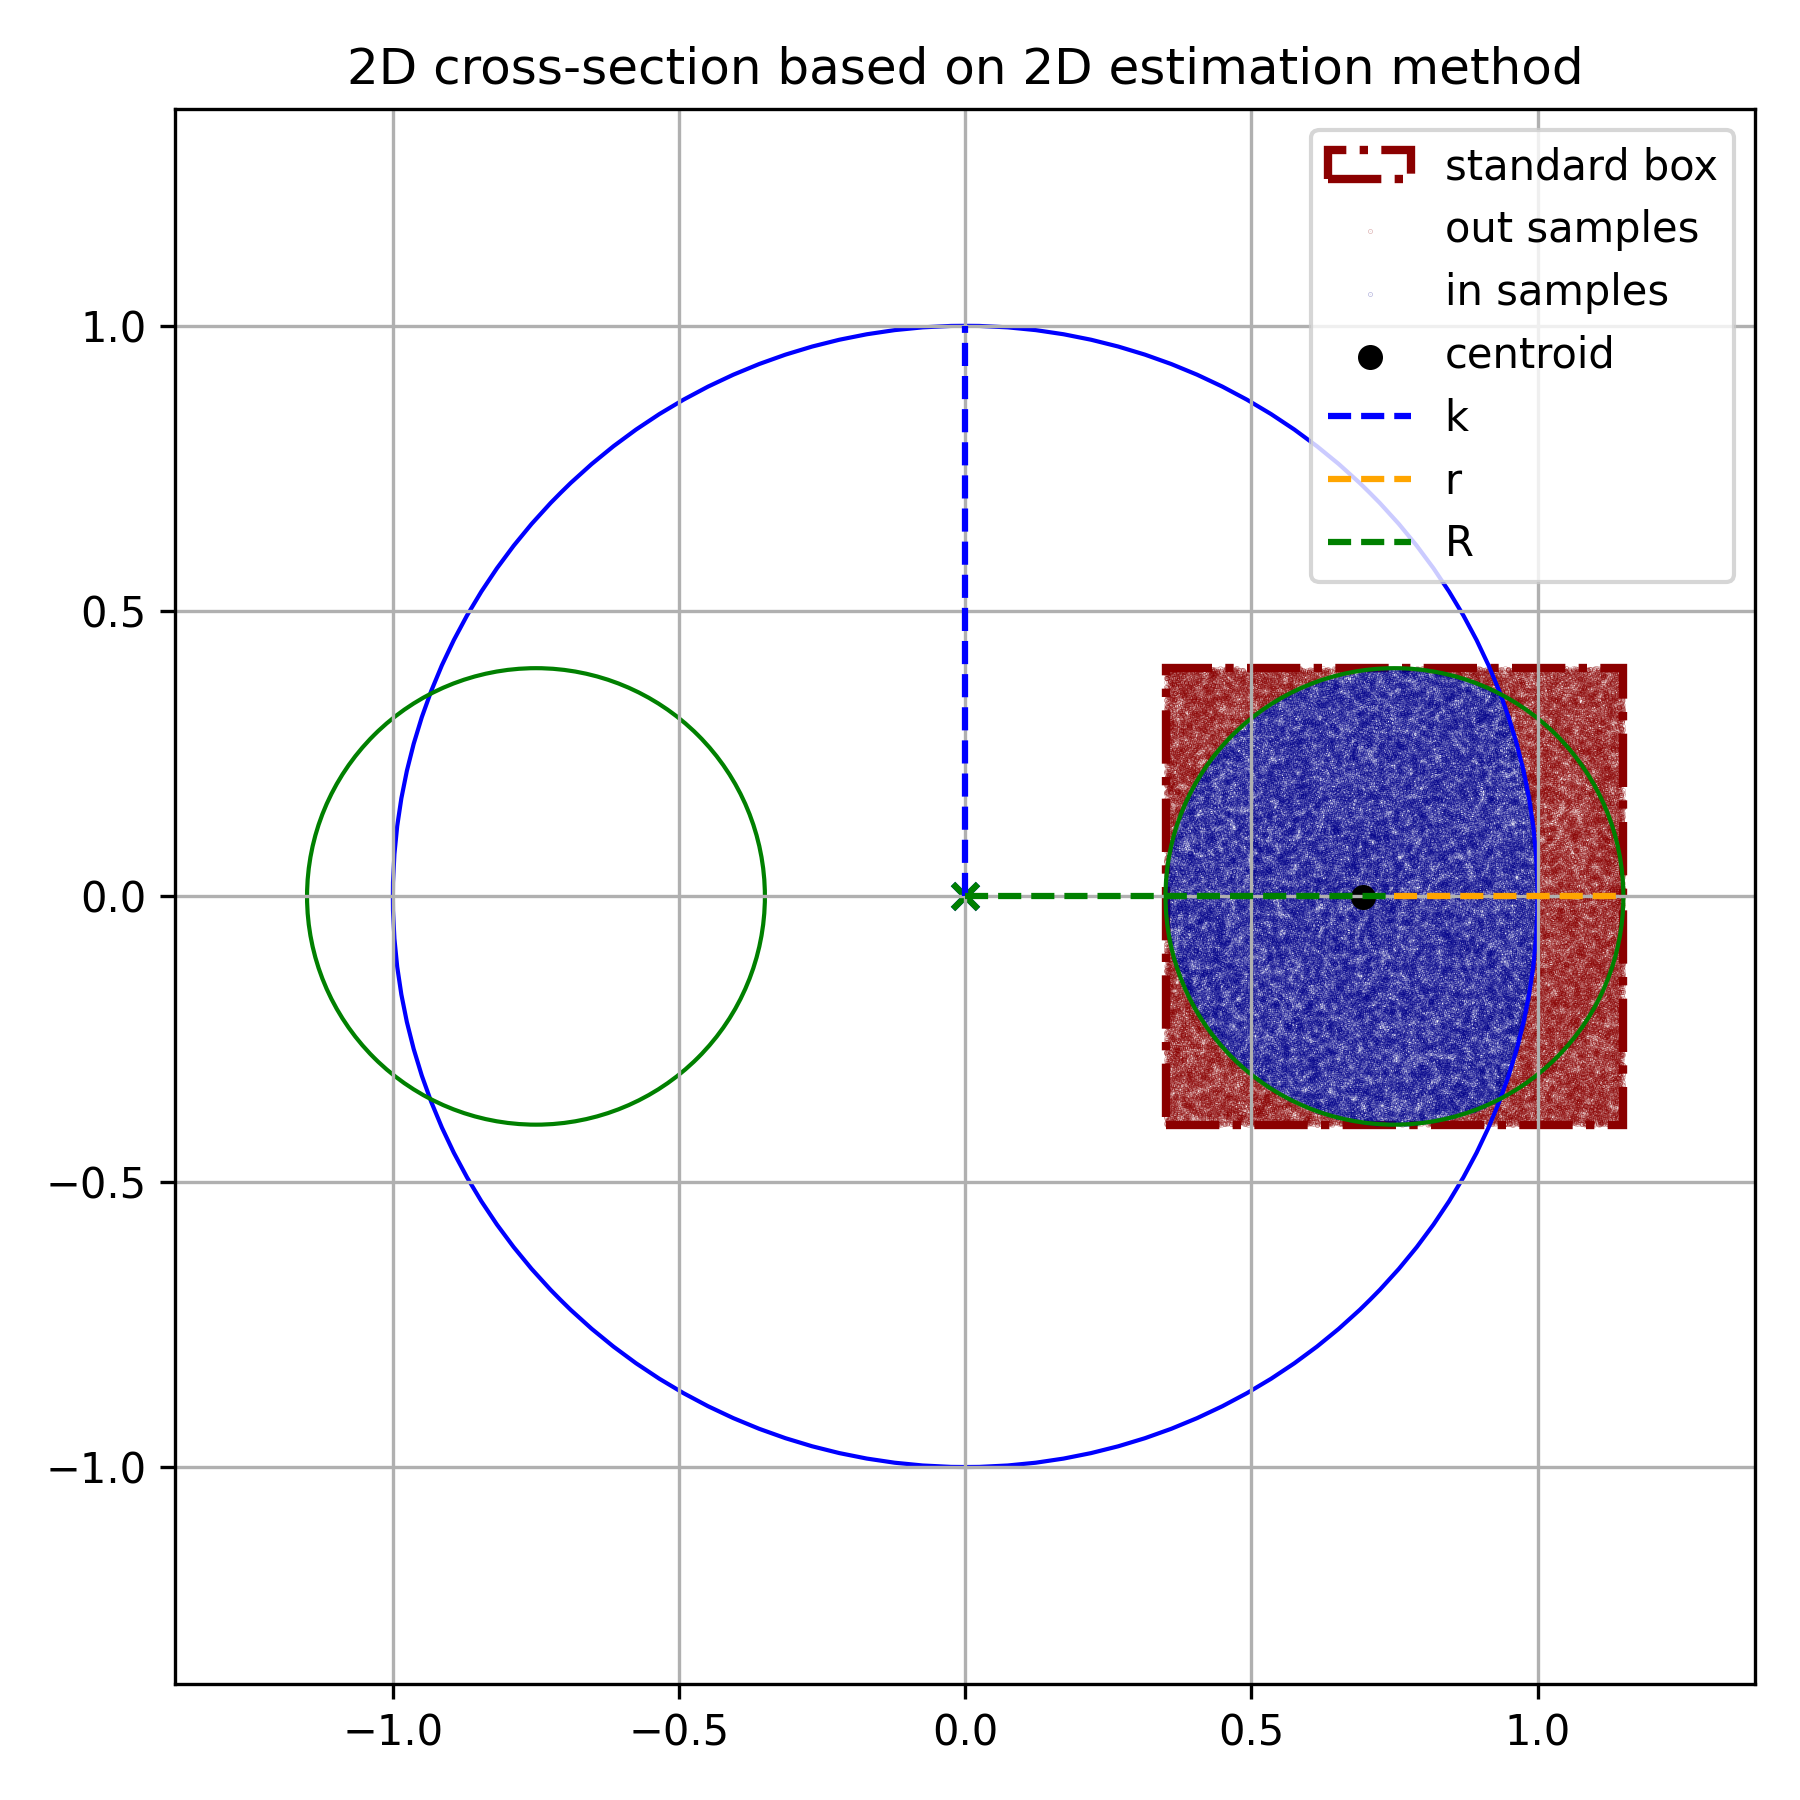
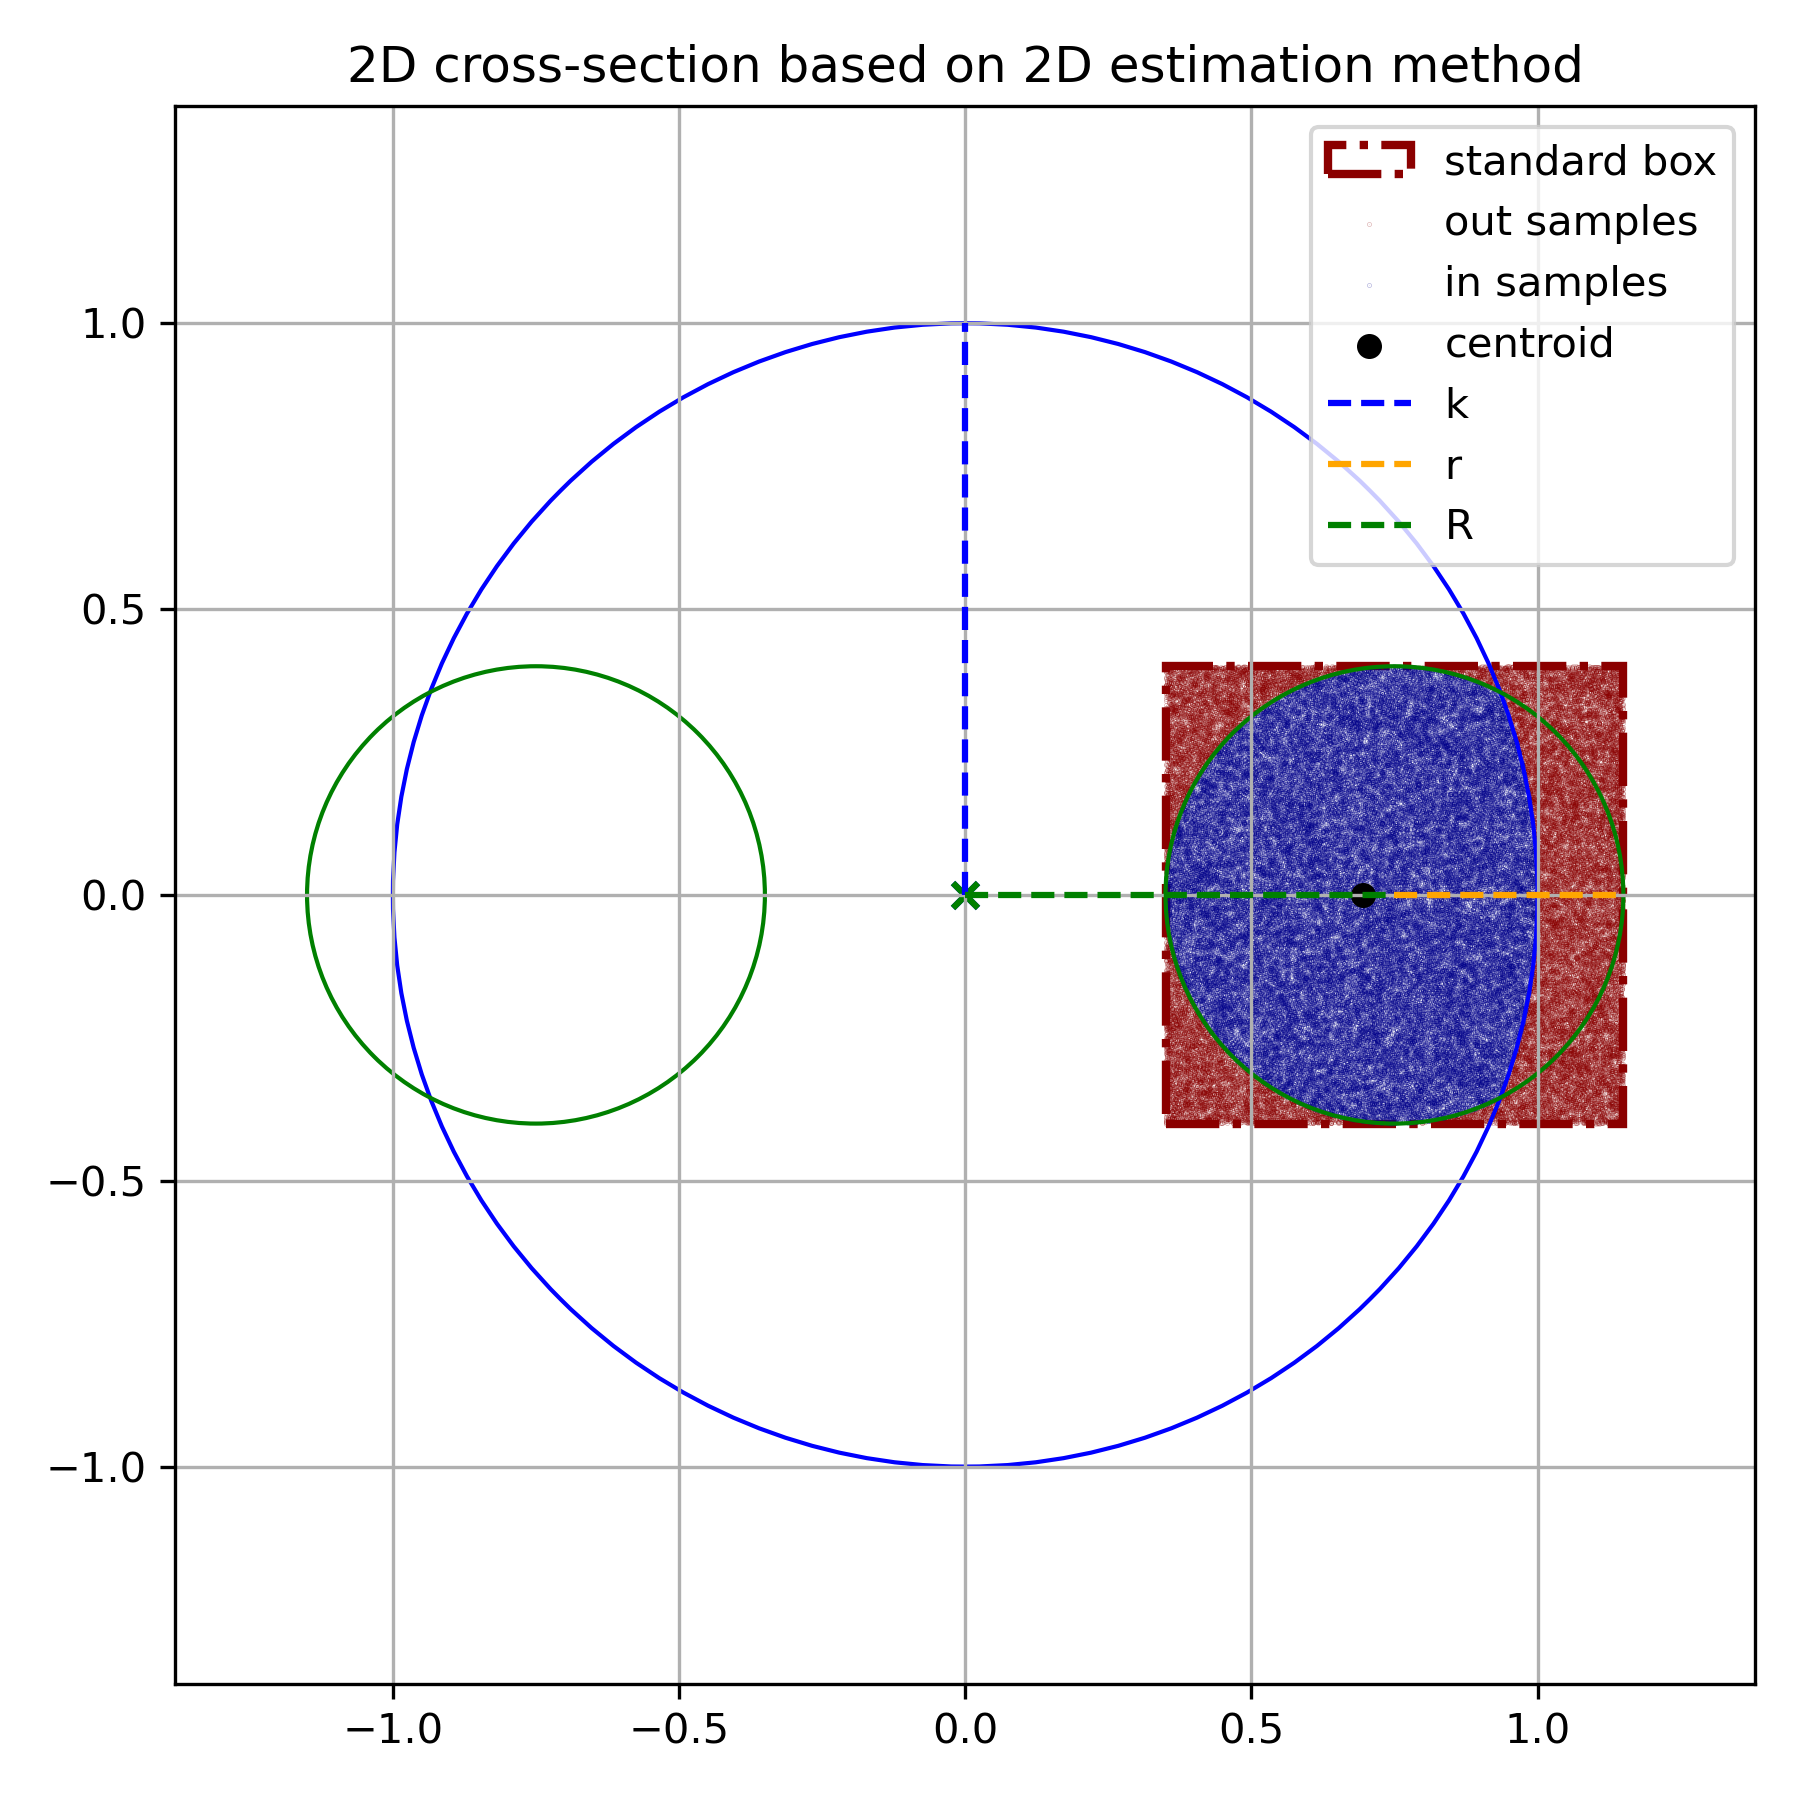
mixture sampling plot

diff --git a/main.py b/main.py
@@ -39,7 +39,7 @@ def box_onesided_2d(r: float, R: float, origin: list[float] = [0.0, 0.0]) -> lis
 
 
 def box_sample(r: float, R: float, origin: list[float] = [0.0, 0.0, 0.0]) -> list:
-    dy = r
+    dy = R + r
     dx = R + r
     dz = r
 
@@ -157,7 +157,7 @@ def monte_carlo_3d(
     Estimates volume of intersection between sphere (radius k) and torus (R, r).
     """
     box = box_standard(r, R, origin=origin)  # or box_sample(r, R)
-
+    print(box)
     pts = samples(box, n)  # or deterministic_sequence(box, n)
 
     inside_sphere = sphere(pts, k)
@@ -180,10 +180,14 @@ def mixed_sampling(
     origin: list[float] = [0.0, 0.0, 0.0],
 ) -> list[float, np.ndarray, np.ndarray]:
     """
-    Estimates volume of intersection between sphere (radius k) and torus (R, r).
+    Estimates volume of intersection between sphere (radius k) and torus (R, r),
+    sampling from a box centered in (0, 0, 0) with probability p
+    and from a smaller box centered in given origin with probability (1-p).
     """
-    box1 = box_standard(r, R, origin=origin)  # or box_sample(r, R)
-    box2 = box_standard(r, R, origin=origin)  # or box_sample(r, R)
+    box1 = box_standard(r, R, origin=origin)
+    box2 = box_sample(r, R, origin=origin)
+
+    print(f"box1 = {box1} and box2 = {box2}")
     pts1 = []
     pts2 = []
 
@@ -203,8 +207,8 @@ def mixed_sampling(
     pts1_in = inside_sphere & inside_torus
 
     # second box
-    inside_sphere = sphere(pts1, k)
-    inside_torus = torus(pts1, r, R)
+    inside_sphere = sphere(pts2, k)
+    inside_torus = torus(pts2, r, R)
     count2 = np.sum(inside_sphere & inside_torus)
     pts2_in = inside_sphere & inside_torus
 
@@ -585,6 +589,234 @@ def run_multi_executions(
     return results
 
 
+def plot_mix_2d(
+    k: float,
+    r: float,
+    R: float,
+    origin_s: list = [0, 0, 0],
+    origin_t: list = [0, 0, 0],
+    pts1: np.ndarray = None,
+    pts1_in: np.ndarray = None,
+    pts2: np.ndarray = None,
+    pts2_in: np.ndarray = None,
+    save_path: str = "",
+    show: bool = False,
+    title: str = "",
+) -> plt.Axes:
+    """
+    Plots the intersection between the sphere and the torus.
+    k: radius of the sphere
+    r: minor radius of the torus
+    R: major radius of the torus
+    """
+
+    fig, ax = plt.subplots(1, 1, figsize=(6, 6))
+    max_val = np.max([k, R + r])
+    x_max = max_val * 1.2
+
+    # sphere
+    sphere = plt.Circle(origin_s, k, color="blue", fill=False)
+    k_line = plt.Line2D(
+        [origin_s[0] + 0],
+        [origin_s[2], origin_s[2] + k],
+        color="blue",
+        ls="--",
+        label="k",
+    )
+
+    # torus
+    torus_l = plt.Circle((origin_t[0] + R, origin_t[2]), r, color="green", fill=False)
+    r_line = plt.Line2D(
+        [origin_t[0] + R, origin_t[0] + R + r],
+        [origin_t[2], origin_t[2]],
+        color="orange",
+        ls="--",
+        label="r",
+    )
+    R_line = plt.Line2D(
+        [origin_t[0], origin_t[0] + R],
+        [origin_t[2], origin_t[2]],
+        color="green",
+        ls="--",
+        label="R",
+    )
+    torus_r = plt.Circle((origin_t[0] - R, origin_t[2]), r, color="green", fill=False)
+
+    # box (only x and z)
+    # from 3d:
+
+    box1 = box_standard(r, R, origin=origin_t)
+    box2 = box_sample(r, R, origin=origin_t)
+
+    if pts.shape[1] == 3:
+
+        rect1 = mpatches.Rectangle(
+            (box1[0][0], box1[2][0]),
+            box1[0][1] - box1[0][0],
+            box1[2][1] - box1[2][0],
+            fill=False,
+            ls="-.",
+            color="purple",
+            lw=2,
+            label="standard box",
+        )
+
+        rect2 = mpatches.Rectangle(
+            (box2[0][0], box2[2][0]),
+            box2[0][1] - box2[0][0],
+            box2[2][1] - box2[2][0],
+            fill=False,
+            ls="-.",
+            color="darkred",
+            lw=2,
+            label="standard box",
+        )
+        ax.add_patch(rect1)
+        ax.add_patch(rect2)
+
+    s = 0.1
+
+    if pts1 is not None:
+        if pts1_in is not None:
+            # in and out samples
+
+            # if from 3d points
+            if pts1.shape[1] == 3:
+                # slice y = 0 plane
+                delta = 0.15 * r
+                slice1_y = np.abs(pts1[:, 1]) < delta
+                pts1_in_2d = pts1_in & slice1_y
+                pts1_out_2d = ~pts1_in & slice1_y
+                # mask
+                in_pts1 = pts1[pts1_in_2d][:, [0, -1]]
+                # binary invert for out points
+                out_pts1 = pts1[pts1_out_2d][:, [0, -1]]
+            # points in 2d
+            else:
+                in_pts1 = pts1[pts1_in]
+                # binary invert for out points
+                out_pts1 = pts1[~pts1_in]
+
+            ax.scatter(
+                out_pts1[:, 0],
+                out_pts1[:, 1],
+                color="purple",
+                marker=".",
+                s=s,
+                alpha=0.7,
+                label="out samples",
+            )
+
+            ax.scatter(
+                in_pts1[:, 0],
+                in_pts1[:, 1],
+                color="blue",
+                marker=".",
+                s=s,
+                alpha=0.3,
+                label="in samples",
+            )
+        else:
+            # only out samples
+            pts1 = np.array(pts1)
+            ax.scatter(
+                pts1[:, 0],
+                pts1[:, 1],
+                color="purple",
+                marker=".",
+                s=s,
+                alpha=0.7,
+                label="out samples",
+            )
+
+    if pts2 is not None:
+        if pts2_in is not None:
+            # in and out samples
+
+            # if from 3d points
+            if pts2.shape[1] == 3:
+                # slice y = 0 plane
+                delta = 0.15 * r
+                slice2_y = np.abs(pts2[:, 1]) < delta
+                pts2_in_2d = pts2_in & slice2_y
+                pts2_out_2d = ~pts2_in & slice2_y
+                # mask
+                in_pts2 = pts2[pts2_in_2d][:, [0, -1]]
+                # binary invert for out points
+                out_pts2 = pts2[pts2_out_2d][:, [0, -1]]
+            # points in 2d
+            else:
+                in_pts2 = pts2[pts2_in]
+                # binary invert for out points
+                out_pts2 = pts2[~pts2_in]
+
+            ax.scatter(
+                out_pts2[:, 0],
+                out_pts2[:, 1],
+                color="orange",
+                marker=".",
+                s=s,
+                alpha=0.5,
+                label="out samples",
+            )
+
+            ax.scatter(
+                in_pts2[:, 0],
+                in_pts2[:, 1],
+                color="darkblue",
+                marker=".",
+                s=s,
+                alpha=0.3,
+                label="in samples",
+            )
+        else:
+            # only out samples
+            pts2 = np.array(pts2)
+            ax.scatter(
+                pts2[:, 0],
+                pts2[:, 1],
+                color="orange",
+                marker=".",
+                s=s,
+                alpha=0.5,
+                label="out samples",
+            )
+
+    # plot
+    ax.add_artist(sphere)
+    ax.add_artist(k_line)
+    ax.add_artist(torus_l)
+    ax.add_artist(torus_r)
+    ax.add_artist(r_line)
+    ax.add_artist(R_line)
+
+    # plot origin
+    plt.scatter(origin_s[0], origin_s[2], color="blue", marker="x")
+    plt.scatter(origin_t[0], origin_t[2], color="green", marker="x")
+    # limits
+    ax.set_xlim([-x_max, x_max])
+    ax.set_ylim([-x_max, x_max])
+    if title:
+        ax.set_title(title)
+    else:
+        ax.set_title("2D cross-section of Sphere and Torus")
+
+    # nicer plot
+    plt.legend()
+    plt.tight_layout()
+    plt.grid()
+
+    # show flag
+    if show:
+        plt.show()
+
+    # save if path is there
+    if save_path:
+        fig.savefig(save_path, dpi=300)
+
+    return ax
+
+
 if __name__ == "__main__":
     # Parameters
     seed_deterministic = np.random.rand(3)
@@ -598,9 +830,9 @@ if __name__ == "__main__":
     # print(sequence)
     # --- Monte Carlo volume estimation ---
 
-    estimated_volume, (pts, pts_in) = monte_carlo_3d(k, r, R, n, origin=origin_shift)
-    print(pts.shape, pts_in.shape)
-    print(f"Estimated intersection volume (sphere ∩ torus): {estimated_volume:.9f}")
+    #    estimated_volume, (pts, pts_in) = monte_carlo_3d(k, r, R, n)
+    #    print(pts.shape, pts_in.shape)
+    #    print(f"Estimated intersection volume (sphere ∩ torus): {estimated_volume:.9f}")
     # --- 3D plot --- (quite slow)
     # plot_3d(k, r, R, pts=pts, pts_in=pts_in)
     # --- 2D plot ---
@@ -608,24 +840,49 @@ if __name__ == "__main__":
     # slice_y = np.abs(pts[:, 1]) < delta
     # pts_in_2d = pts_in & slice_y
     # centroid_2d = find_centroid(pts[pts_in_2d])
-    plot_2d(k, r, R, pts=pts, pts_in=pts_in, save_path="img/2d.png")
+    #    plot_2d(k, r, R, pts=pts, pts_in=pts_in, save_path="img/2d.png")
+
+    # --- Monte Carlo volume estimation via 2D simplification ---
+    #    estimated_volume_2d, (pts_2d, pts_in_2d) = monte_carlo_2d(k, r, R, n)
+    #    plot_2d(
+    #        k,
+    #        r,
+    #        R,
+    #        pts=pts_2d,
+    #        pts_in=pts_in_2d,
+    #        centroid=find_centroid(pts_2d[pts_in_2d]),
+    #        save_path="img/2d_estimate_via_2d.png",
+    #        title="2D cross-section based on 2D estimation method",
+    #    )
+    #    print(f"Estimated intersection volume via 2D method: {estimated_volume_2d:.9f}")
+
+    # --- Monte Carlo volume estimation with mixed sampling ---
+
+    estimated_volume, (pts, pts_in) = monte_carlo_3d(k, r, R, n, origin=origin_shift)
+    print(
+        f"Estimated intersection volume (sphere ∩ torus) with torus' origin shifted: {estimated_volume:.9f}"
+    )
 
     estimated_volume_mix, (pts1, pts1_in), (pts2, pts2_in) = mixed_sampling(
         k, r, R, 0.5, n, origin=origin_shift
     )
-    print(pts1.shape, pts1_in.shape, pts2.shape, pts2_in.shape)
-    print(f"Estimated intersection volume (sphere ∩ torus): {estimated_volume_mix:.4f}")
+    print(
+        f"shape of pt1, pt1_in: {pts1.shape, pts1_in.shape}, shape of pt2, pt2_in: { pts2.shape, pts2_in.shape}"
+    )
+    print(
+        f"Estimated intersection volume (sphere ∩ torus) with mixed sampling and torus' origin shifted: {estimated_volume_mix:.9f}"
+    )
 
-    # --- Monte Carlo volume estimation via 2D simplification ---
-    estimated_volume_2d, (pts_2d, pts_in_2d) = monte_carlo_2d(k, r, R, n)
-    plot_2d(
+    plot_mix_2d(
         k,
         r,
         R,
-        pts=pts_2d,
-        pts_in=pts_in_2d,
-        centroid=find_centroid(pts_2d[pts_in_2d]),
-        save_path="img/2d_estimate_via_2d.png",
-        title="2D cross-section based on 2D estimation method",
+        origin_t=origin_shift,
+        pts1=pts1,
+        pts1_in=pts1_in,
+        pts2=pts2,
+        pts2_in=pts2_in,
+        show=True,
+        save_path="img/mix_sampling_2d.png",
+        title="2D cross-section of miixture sampling",
     )
-    print(f"Estimated intersection volume via 2D method: {estimated_volume_2d:.9f}")
